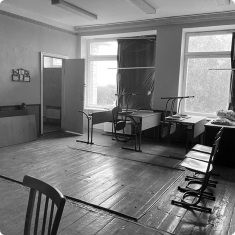
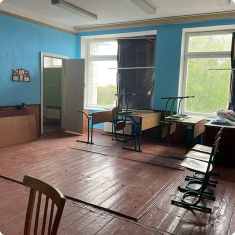
add greyscale filter and change phosos in slider 1

diff --git a/css/main.min.css b/css/main.min.css
@@ -1,1 +1,1 @@
-:root{--base-color: #ffffff;--naftogaz-blue: #00a1de;--main-black: #000000;--transfotmation-time: 250ms;--tranformation-function: cubic-bezier(0.4, 0, 0.2, 1);--mainfont: "Montserrat", sans-serif;--adfont: "Volkhov", serif}.visually-hidden{position:absolute;white-space:nowrap;width:1px;height:1px;overflow:hidden;border:0;padding:0;clip:rect(0 0 0 0);-webkit-clip-path:inset(50%);clip-path:inset(50%);margin:-1px}body{background-color:#fff;margin:0;padding:0;color:var(--base-color);font-family:var(--mainfont);font-weight:800}p,ul{margin:0;padding:0}a{color:var(--base-color)}.title{margin:0;padding:0}.link{text-decoration:none;font-style:normal;color:inherit}.list{padding:0;margin:0;list-style:none}.header{position:fixed;z-index:2;width:100%;background-color:rgba(255,255,255,.5);-webkit-transform:translateY(-100%);transform:translateY(-100%);-webkit-transition-property:-webkit-transform;transition-property:-webkit-transform;transition-property:transform;transition-property:transform, -webkit-transform;-webkit-transition-duration:var(--transfotmation-time);transition-duration:var(--transfotmation-time);-webkit-transition-timing-function:var(--tranformation-function);transition-timing-function:var(--tranformation-function)}.header.active{-webkit-transform:translateY(0);transform:translateY(0)}.header_container{width:100%;margin:0 auto;padding-left:25px;padding-right:15px;padding-top:8px;padding-bottom:8px}.logo{-webkit-transform:translateY(-200%);transform:translateY(-200%);-webkit-transition-property:-webkit-transform;transition-property:-webkit-transform;transition-property:transform;transition-property:transform, -webkit-transform;-webkit-transition-duration:var(--transfotmation-time);transition-duration:var(--transfotmation-time);-webkit-transition-timing-function:var(--tranformation-function);transition-timing-function:var(--tranformation-function)}.logo.active{-webkit-transform:translateY(0);transform:translateY(0)}.logo-icon{display:block;height:24px;margin-top:10px;margin-bottom:10px}.top-menu{display:-webkit-box;display:-ms-flexbox;display:flex;-webkit-box-pack:justify;-ms-flex-pack:justify;justify-content:space-between;-webkit-box-align:center;-ms-flex-align:center;align-items:center}.menu-container{width:100%;-webkit-transition-property:-webkit-transform;transition-property:-webkit-transform;transition-property:transform;transition-property:transform, -webkit-transform;-webkit-transition-duration:var(--transfotmation-time);transition-duration:var(--transfotmation-time);-webkit-transition-timing-function:var(--tranformation-function);transition-timing-function:var(--tranformation-function)}@media screen and (max-width: 767px){.menu-container{position:fixed;top:60px;right:-100%;z-index:1;background-color:rgba(255,255,255,.5);padding:48px 40px}}.menu-container.is-open{-webkit-transform:translateX(-100%);transform:translateX(-100%)}.top-menu-button{display:-webkit-inline-box;display:-ms-inline-flexbox;display:inline-flex;margin:0;padding:0;border:none;background-color:rgba(0,0,0,0);color:var(--base-color);position:relative;z-index:2}@media screen and (min-width: 768px){.top-menu-button{display:none}}.top-menu-use{fill:currentColor}.top-menu-button .top-menu-use__cross{display:none}.top-menu-button.is-open .top-menu-use__cross{display:block}.top-menu-button.is-open .top-menu-use__menu{display:none}.container{margin:0 auto;padding:0 15px;outline:1px gray dotted}@media screen and (min-width: 480px){.container{width:480px}}@media screen and (min-width: 768px){.container{width:768px}}@media screen and (min-width: 1200px){.container{width:1200px}}.main-section{padding-top:44vh;height:100vh;background-image:-webkit-gradient(linear, left top, right top, from(rgba(0, 0, 0, 0.6)), to(rgba(0, 0, 0, 0.6))),url(../img/main-mob@1x.png);background-image:linear-gradient(to right, rgba(0, 0, 0, 0.6), rgba(0, 0, 0, 0.6)),url(../img/main-mob@1x.png);background-repeat:no-repeat;background-position-x:center;background-position-y:center;background-size:cover}@media(min-device-pixel-ratio: 2),(-webkit-min-device-pixel-ratio: 2),(min-resolution: 192dpi),(min-resolution: 2dppx){.main-section{background-image:-webkit-gradient(linear, left top, right top, from(rgba(0, 0, 0, 0.6)), to(rgba(0, 0, 0, 0.6))),url(../img/main-mob@2x.png);background-image:linear-gradient(to right, rgba(0, 0, 0, 0.6), rgba(0, 0, 0, 0.6)),url(../img/main-mob@2x.png)}}@media screen and (min-width: 768px){.main-section{background-image:-webkit-gradient(linear, left top, right top, from(rgba(0, 0, 0, 0.6)), to(rgba(0, 0, 0, 0.6))),url(../img/main-tablet@1x.png);background-image:linear-gradient(to right, rgba(0, 0, 0, 0.6), rgba(0, 0, 0, 0.6)),url(../img/main-tablet@1x.png)}}@media screen and (min-width: 768px)and (min-device-pixel-ratio: 2),screen and (min-width: 768px)and (-webkit-min-device-pixel-ratio: 2),screen and (min-width: 768px)and (min-resolution: 192dpi),screen and (min-width: 768px)and (min-resolution: 2dppx){.main-section{background-image:-webkit-gradient(linear, left top, right top, from(rgba(0, 0, 0, 0.6)), to(rgba(0, 0, 0, 0.6))),url(../img/main-tablet@2x.png);background-image:linear-gradient(to right, rgba(0, 0, 0, 0.6), rgba(0, 0, 0, 0.6)),url(../img/main-tablet@2x.png)}}@media screen and (min-width: 1200px){.main-section{background-image:-webkit-gradient(linear, left top, right top, from(rgba(0, 0, 0, 0.6)), to(rgba(0, 0, 0, 0.6))),url(../img/main-desktop@1x.png);background-image:linear-gradient(to right, rgba(0, 0, 0, 0.6), rgba(0, 0, 0, 0.6)),url(../img/main-desktop@1x.png)}}@media screen and (min-width: 1200px)and (min-device-pixel-ratio: 2),screen and (min-width: 1200px)and (-webkit-min-device-pixel-ratio: 2),screen and (min-width: 1200px)and (min-resolution: 192dpi),screen and (min-width: 1200px)and (min-resolution: 2dppx){.main-section{background-image:-webkit-gradient(linear, left top, right top, from(rgba(0, 0, 0, 0.6)), to(rgba(0, 0, 0, 0.6))),url(../img/main-desktop@2x.png);background-image:linear-gradient(to right, rgba(0, 0, 0, 0.6), rgba(0, 0, 0, 0.6)),url(../img/main-desktop@2x.png)}}.main-title{height:152px;margin-left:auto;margin-right:auto;margin-bottom:66px;background-image:url(../img/main-title-mob.svg);background-repeat:no-repeat;background-position:center;background-size:contain}@media screen and (min-width: 768px){.main-title{max-width:566px;background-image:url(../img/main-title-tablet.svg);margin-bottom:68px}}@media screen and (min-width: 1200px){.main-title{max-width:832px;margin-bottom:54px}}.main-orglogos{max-width:315px;margin-left:auto;margin-right:auto;margin-bottom:66px}@media screen and (min-width: 768px){.main-orglogos{max-width:566px}}.main-orglogos_logo-items{display:-webkit-box;display:-ms-flexbox;display:flex;-webkit-box-pack:justify;-ms-flex-pack:justify;justify-content:space-between;-webkit-box-align:stretch;-ms-flex-align:stretch;align-items:stretch}.main-orglogos_logo-img{height:20px}@media screen and (min-width: 768px){.main-orglogos_logo-img{height:36px}}@media screen and (min-width: 1200px){.main-orglogos_logo-img{height:40px}}.intro-section{padding-top:100px;height:100vh;background-image:-webkit-gradient(linear, left top, right top, from(var(--naftogaz-blue)), to(var(--naftogaz-blue)));background-image:linear-gradient(to right, var(--naftogaz-blue), var(--naftogaz-blue));background-repeat:no-repeat;background-size:auto 270px}.intro-section_container{position:relative}.intro-section_large-text{font-size:40px;line-height:1.23;letter-spacing:.05em;color:var(--base-color);margin-bottom:34px}.intro-section_small-text{font-size:36px;color:var(--main-black)}.intro-section_work-1{position:absolute;right:0;top:50%;-webkit-transform:translate(0, -45%);transform:translate(0, -45%)}.intro-section_work-1-img{display:block}.intro-section_work-2{position:relative;bottom:0px}.intro-section_work-2-img{display:block}.schools-section{position:relative;padding-top:124px;padding-bottom:100px;min-height:332vh;background-color:#000;color:var(--naftogaz-blue)}.schools-section_container{position:sticky;top:124px}.schools-section_text{width:380px;font-size:30px;line-height:1.22;margin:0 auto 30px}.intro2-section{color:var(--main-black);padding-bottom:46px}.intro2-section_sticky-container{position:relative}.intro2-section_work-1{position:sticky;top:0;margin:0 -15px}.intro2-section_work-1-img{display:block;width:100%}.intro2-section_work-2{position:sticky;top:0;z-index:2;margin:0 -15px}.intro2-section_work-2-img{display:block;width:100%}.intro2-section_work-3{position:sticky;top:0;margin:0 -15px}.intro2-section_work-3-img{display:block;width:100%}.intro2-section_work-4{position:sticky;top:0;z-index:3;margin:0 -15px}.intro2-section_work-4-img{display:block;width:100%}.intro2-section_small-text{position:sticky;top:940px;font-size:36px;line-height:1.23;margin-top:44px}.slider{margin-left:-15px;margin-right:-15px;overflow:hidden}.slider_plate{position:relative;left:0;top:0;display:-webkit-box;display:-ms-flexbox;display:flex;-webkit-box-pack:start;-ms-flex-pack:start;justify-content:start;-webkit-box-align:center;-ms-flex-align:center;align-items:center}.slider1_tiles{display:grid;grid-template-columns:auto auto auto auto auto auto;grid-template-rows:repeat(2, 1fr);grid-column-gap:0px;grid-row-gap:0px}.slider1_plate{width:2388px}.tile1{grid-area:1/1/3/2}.tile2{grid-area:1/2/2/3}.tile3{grid-area:1/3/2/5}.tile4{grid-area:2/2/3/4}.tile5{grid-area:2/4/3/5}.tile6{grid-area:1/5/3/7}.slider1_added-text{width:380px;height:452px;font-size:30px;line-height:1.23;letter-spacing:.05em;color:var(--base-color);margin:0 52px}.slider1_added-text-span{color:var(--naftogaz-blue)}.slider1_stop-slide{width:380px;margin:0 52px}.slider1_stop-text{font-size:40px;line-height:1.23;letter-spacing:.05em;color:var(--base-color);margin-bottom:50px}.slider1_stop-text-link{color:var(--naftogaz-blue)}.tile_img{display:block}.btn-donate{display:block;font-family:inherit;font-size:32px;line-height:39px;text-align:center;color:var(--base-color);background-color:var(--naftogaz-blue);cursor:pointer;padding:10px 70px;width:380px;margin:0 auto;border:1px solid rgba(0,0,0,0)}.requisites-section{color:var(--main-black);background-color:var(--base-color);text-align:center;padding-top:92px}.requisites-section_title{font-size:48px;line-height:1.23;margin-bottom:15px}.requisites-section_subtitle{font-size:36px;line-height:1.23;margin-bottom:15px}.requisites-items{margin-bottom:30px}.requisites-item{margin-bottom:30px}.requisites-item-key{font-size:24px;line-height:1.23;margin-bottom:15px}.requisites-item-value{font-size:16px;line-height:1.23}.requisites-section_work-1-img{width:100%;display:block}.footer{color:var(--base-color);background-color:var(--main-black);text-align:center;padding-top:92px;padding-bottom:30px}.footer_title{font-size:48px;line-height:1.23;margin-bottom:20px}.social{font-size:14px;line-height:1.23;margin-bottom:40px}.social_item{margin-bottom:30px}.social_icon{margin-bottom:15px}.insta{margin-bottom:60px}.insta_text{font-size:20px;line-height:1.23;margin-bottom:15px}.insta_link{font-size:14px;line-height:1.23}.main-orglogos--footer{margin-bottom:30px}/*# sourceMappingURL=main.min.css.map */
+:root{--base-color: #ffffff;--naftogaz-blue: #00a1de;--main-black: #000000;--transfotmation-time: 250ms;--tranformation-function: cubic-bezier(0.4, 0, 0.2, 1);--mainfont: "Montserrat", sans-serif;--adfont: "Volkhov", serif}.visually-hidden{position:absolute;white-space:nowrap;width:1px;height:1px;overflow:hidden;border:0;padding:0;clip:rect(0 0 0 0);-webkit-clip-path:inset(50%);clip-path:inset(50%);margin:-1px}body{background-color:#fff;margin:0;padding:0;color:var(--base-color);font-family:var(--mainfont);font-weight:800}p,ul{margin:0;padding:0}a{color:var(--base-color)}.title{margin:0;padding:0}.link{text-decoration:none;font-style:normal;color:inherit}.list{padding:0;margin:0;list-style:none}.header{position:fixed;z-index:2;width:100%;background-color:rgba(255,255,255,.5);-webkit-transform:translateY(-100%);transform:translateY(-100%);-webkit-transition-property:-webkit-transform;transition-property:-webkit-transform;transition-property:transform;transition-property:transform, -webkit-transform;-webkit-transition-duration:var(--transfotmation-time);transition-duration:var(--transfotmation-time);-webkit-transition-timing-function:var(--tranformation-function);transition-timing-function:var(--tranformation-function)}.header.active{-webkit-transform:translateY(0);transform:translateY(0)}.header_container{width:100%;margin:0 auto;padding-left:25px;padding-right:15px;padding-top:8px;padding-bottom:8px}.logo{-webkit-transform:translateY(-200%);transform:translateY(-200%);-webkit-transition-property:-webkit-transform;transition-property:-webkit-transform;transition-property:transform;transition-property:transform, -webkit-transform;-webkit-transition-duration:var(--transfotmation-time);transition-duration:var(--transfotmation-time);-webkit-transition-timing-function:var(--tranformation-function);transition-timing-function:var(--tranformation-function)}.logo.active{-webkit-transform:translateY(0);transform:translateY(0)}.logo-icon{display:block;height:24px;margin-top:10px;margin-bottom:10px}.top-menu{display:-webkit-box;display:-ms-flexbox;display:flex;-webkit-box-pack:justify;-ms-flex-pack:justify;justify-content:space-between;-webkit-box-align:center;-ms-flex-align:center;align-items:center}.menu-container{width:100%;-webkit-transition-property:-webkit-transform;transition-property:-webkit-transform;transition-property:transform;transition-property:transform, -webkit-transform;-webkit-transition-duration:var(--transfotmation-time);transition-duration:var(--transfotmation-time);-webkit-transition-timing-function:var(--tranformation-function);transition-timing-function:var(--tranformation-function)}@media screen and (max-width: 767px){.menu-container{position:fixed;top:60px;right:-100%;z-index:1;background-color:rgba(255,255,255,.5);padding:48px 40px}}.menu-container.is-open{-webkit-transform:translateX(-100%);transform:translateX(-100%)}.top-menu-button{display:-webkit-inline-box;display:-ms-inline-flexbox;display:inline-flex;margin:0;padding:0;border:none;background-color:rgba(0,0,0,0);color:var(--base-color);position:relative;z-index:2}@media screen and (min-width: 768px){.top-menu-button{display:none}}.top-menu-use{fill:currentColor}.top-menu-button .top-menu-use__cross{display:none}.top-menu-button.is-open .top-menu-use__cross{display:block}.top-menu-button.is-open .top-menu-use__menu{display:none}.container{margin:0 auto;padding:0 15px;outline:1px gray dotted}@media screen and (min-width: 480px){.container{width:480px}}@media screen and (min-width: 768px){.container{width:768px}}@media screen and (min-width: 1200px){.container{width:1200px}}.main-section{padding-top:44vh;height:100vh;background-image:-webkit-gradient(linear, left top, right top, from(rgba(0, 0, 0, 0.6)), to(rgba(0, 0, 0, 0.6))),url(../img/main-mob@1x.png);background-image:linear-gradient(to right, rgba(0, 0, 0, 0.6), rgba(0, 0, 0, 0.6)),url(../img/main-mob@1x.png);background-repeat:no-repeat;background-position-x:center;background-position-y:center;background-size:cover}@media(min-device-pixel-ratio: 2),(-webkit-min-device-pixel-ratio: 2),(min-resolution: 192dpi),(min-resolution: 2dppx){.main-section{background-image:-webkit-gradient(linear, left top, right top, from(rgba(0, 0, 0, 0.6)), to(rgba(0, 0, 0, 0.6))),url(../img/main-mob@2x.png);background-image:linear-gradient(to right, rgba(0, 0, 0, 0.6), rgba(0, 0, 0, 0.6)),url(../img/main-mob@2x.png)}}@media screen and (min-width: 768px){.main-section{background-image:-webkit-gradient(linear, left top, right top, from(rgba(0, 0, 0, 0.6)), to(rgba(0, 0, 0, 0.6))),url(../img/main-tablet@1x.png);background-image:linear-gradient(to right, rgba(0, 0, 0, 0.6), rgba(0, 0, 0, 0.6)),url(../img/main-tablet@1x.png)}}@media screen and (min-width: 768px)and (min-device-pixel-ratio: 2),screen and (min-width: 768px)and (-webkit-min-device-pixel-ratio: 2),screen and (min-width: 768px)and (min-resolution: 192dpi),screen and (min-width: 768px)and (min-resolution: 2dppx){.main-section{background-image:-webkit-gradient(linear, left top, right top, from(rgba(0, 0, 0, 0.6)), to(rgba(0, 0, 0, 0.6))),url(../img/main-tablet@2x.png);background-image:linear-gradient(to right, rgba(0, 0, 0, 0.6), rgba(0, 0, 0, 0.6)),url(../img/main-tablet@2x.png)}}@media screen and (min-width: 1200px){.main-section{background-image:-webkit-gradient(linear, left top, right top, from(rgba(0, 0, 0, 0.6)), to(rgba(0, 0, 0, 0.6))),url(../img/main-desktop@1x.png);background-image:linear-gradient(to right, rgba(0, 0, 0, 0.6), rgba(0, 0, 0, 0.6)),url(../img/main-desktop@1x.png)}}@media screen and (min-width: 1200px)and (min-device-pixel-ratio: 2),screen and (min-width: 1200px)and (-webkit-min-device-pixel-ratio: 2),screen and (min-width: 1200px)and (min-resolution: 192dpi),screen and (min-width: 1200px)and (min-resolution: 2dppx){.main-section{background-image:-webkit-gradient(linear, left top, right top, from(rgba(0, 0, 0, 0.6)), to(rgba(0, 0, 0, 0.6))),url(../img/main-desktop@2x.png);background-image:linear-gradient(to right, rgba(0, 0, 0, 0.6), rgba(0, 0, 0, 0.6)),url(../img/main-desktop@2x.png)}}.main-title{height:152px;margin-left:auto;margin-right:auto;margin-bottom:66px;background-image:url(../img/main-title-mob.svg);background-repeat:no-repeat;background-position:center;background-size:contain}@media screen and (min-width: 768px){.main-title{max-width:566px;background-image:url(../img/main-title-tablet.svg);margin-bottom:68px}}@media screen and (min-width: 1200px){.main-title{max-width:832px;margin-bottom:54px}}.main-orglogos{max-width:315px;margin-left:auto;margin-right:auto;margin-bottom:66px}@media screen and (min-width: 768px){.main-orglogos{max-width:566px}}.main-orglogos_logo-items{display:-webkit-box;display:-ms-flexbox;display:flex;-webkit-box-pack:justify;-ms-flex-pack:justify;justify-content:space-between;-webkit-box-align:stretch;-ms-flex-align:stretch;align-items:stretch}.main-orglogos_logo-img{height:20px}@media screen and (min-width: 768px){.main-orglogos_logo-img{height:36px}}@media screen and (min-width: 1200px){.main-orglogos_logo-img{height:40px}}.intro-section{padding-top:100px;height:100vh;background-image:-webkit-gradient(linear, left top, right top, from(var(--naftogaz-blue)), to(var(--naftogaz-blue)));background-image:linear-gradient(to right, var(--naftogaz-blue), var(--naftogaz-blue));background-repeat:no-repeat;background-size:auto 270px}.intro-section_container{position:relative}.intro-section_large-text{font-size:40px;line-height:1.23;letter-spacing:.05em;color:var(--base-color);margin-bottom:34px}.intro-section_small-text{font-size:36px;color:var(--main-black)}.intro-section_work-1{position:absolute;right:0;top:50%;-webkit-transform:translate(0, -45%);transform:translate(0, -45%)}.intro-section_work-1-img{display:block}.intro-section_work-2{position:relative;bottom:0px}.intro-section_work-2-img{display:block}.schools-section{position:relative;padding-top:124px;padding-bottom:100px;min-height:332vh;background-color:#000;color:var(--naftogaz-blue)}.schools-section_container{position:sticky;top:124px}.schools-section_text{width:380px;font-size:30px;line-height:1.22;margin:0 auto 30px}.intro2-section{color:var(--main-black);padding-bottom:46px}.intro2-section_sticky-container{position:relative}.intro2-section_work-1{position:sticky;top:0;margin:0 -15px}.intro2-section_work-1-img{display:block;width:100%}.intro2-section_work-2{position:sticky;top:0;z-index:2;margin:0 -15px}.intro2-section_work-2-img{display:block;width:100%}.intro2-section_work-3{position:sticky;top:0;margin:0 -15px}.intro2-section_work-3-img{display:block;width:100%}.intro2-section_work-4{position:sticky;top:0;z-index:3;margin:0 -15px}.intro2-section_work-4-img{display:block;width:100%}.intro2-section_small-text{position:sticky;top:940px;font-size:36px;line-height:1.23;margin-top:44px}.slider{margin-left:-15px;margin-right:-15px;overflow:hidden}.slider_plate{position:relative;left:0;top:0;display:-webkit-box;display:-ms-flexbox;display:flex;-webkit-box-pack:start;-ms-flex-pack:start;justify-content:start;-webkit-box-align:center;-ms-flex-align:center;align-items:center}.slider1_tiles{display:grid;grid-template-columns:auto auto auto auto auto auto;grid-template-rows:repeat(2, 1fr);grid-column-gap:0px;grid-row-gap:0px}.slider1_plate{width:2388px}.tile1{grid-area:1/1/3/2}.tile2{grid-area:1/2/2/3}.tile3{grid-area:1/3/2/5}.tile4{grid-area:2/2/3/4}.tile5{grid-area:2/4/3/5}.tile6{grid-area:1/5/3/7}.slider1_added-text{width:380px;height:452px;font-size:30px;line-height:1.23;letter-spacing:.05em;color:var(--base-color);margin:0 52px}.slider1_added-text-span{color:var(--naftogaz-blue)}.slider1_stop-slide{width:380px;margin:0 52px}.slider1_stop-text{font-size:40px;line-height:1.23;letter-spacing:.05em;color:var(--base-color);margin-bottom:50px}.slider1_stop-text-link{color:var(--naftogaz-blue)}.tile_img{display:block;-webkit-filter:grayscale(100%);filter:grayscale(100%)}.tile_img:hover{-webkit-filter:none;filter:none}.btn-donate{display:block;font-family:inherit;font-size:32px;line-height:39px;text-align:center;color:var(--base-color);background-color:var(--naftogaz-blue);cursor:pointer;padding:10px 70px;width:380px;margin:0 auto;border:1px solid rgba(0,0,0,0)}.requisites-section{color:var(--main-black);background-color:var(--base-color);text-align:center;padding-top:92px}.requisites-section_title{font-size:48px;line-height:1.23;margin-bottom:15px}.requisites-section_subtitle{font-size:36px;line-height:1.23;margin-bottom:15px}.requisites-items{margin-bottom:30px}.requisites-item{margin-bottom:30px}.requisites-item-key{font-size:24px;line-height:1.23;margin-bottom:15px}.requisites-item-value{font-size:16px;line-height:1.23}.requisites-section_work-1-img{width:100%;display:block}.footer{color:var(--base-color);background-color:var(--main-black);text-align:center;padding-top:92px;padding-bottom:30px}.footer_title{font-size:48px;line-height:1.23;margin-bottom:20px}.social{font-size:14px;line-height:1.23;margin-bottom:40px}.social_item{margin-bottom:30px}.social_icon{margin-bottom:15px}.insta{margin-bottom:60px}.insta_text{font-size:20px;line-height:1.23;margin-bottom:15px}.insta_link{font-size:14px;line-height:1.23}.main-orglogos--footer{margin-bottom:30px}/*# sourceMappingURL=main.min.css.map */

diff --git a/index.html b/index.html
@@ -157,12 +157,12 @@
             <div class="intro2-section_work-1">
               <img src="./img/intro2-section_work-1.png" alt="" class="intro2-section_work-1-img" />
             </div>
-            <div class="intro2-section_work-2">
+            <!-- <div class="intro2-section_work-2">
               <img src="./img/intro2-section_work-2.png" alt="" class="intro2-section_work-2-img" />
-            </div>
-            <div class="intro2-section_work-3">
+            </div> -->
+            <!-- <div class="intro2-section_work-3">
               <img src="./img/intro2-section_work-3.png" alt="" class="intro2-section_work-3-img" />
-            </div>
+            </div> -->
             <div class="intro2-section_work-4">
               <img src="./img/intro2-section_work-4.png" alt="" class="intro2-section_work-4-img" />
             </div>

diff --git a/css/main.css b/css/main.css
@@ -534,6 +534,13 @@ a {
 
 .tile_img {
   display: block;
+  -webkit-filter: grayscale(100%);
+  /* Safari 6.0 - 9.0 */
+  filter: grayscale(100%);
+}
+.tile_img:hover {
+  -webkit-filter: none;
+  filter: none;
 }
 
 .btn-donate {

diff --git a/scss/components/_slider1.scss b/scss/components/_slider1.scss
@@ -76,4 +76,11 @@
 
 .tile_img {
   display: block;
+  -webkit-filter: grayscale(100%); /* Safari 6.0 - 9.0 */
+  filter: grayscale(100%);
+
+  &:hover {
+    -webkit-filter: none;
+    filter: none;
+  }
 }
